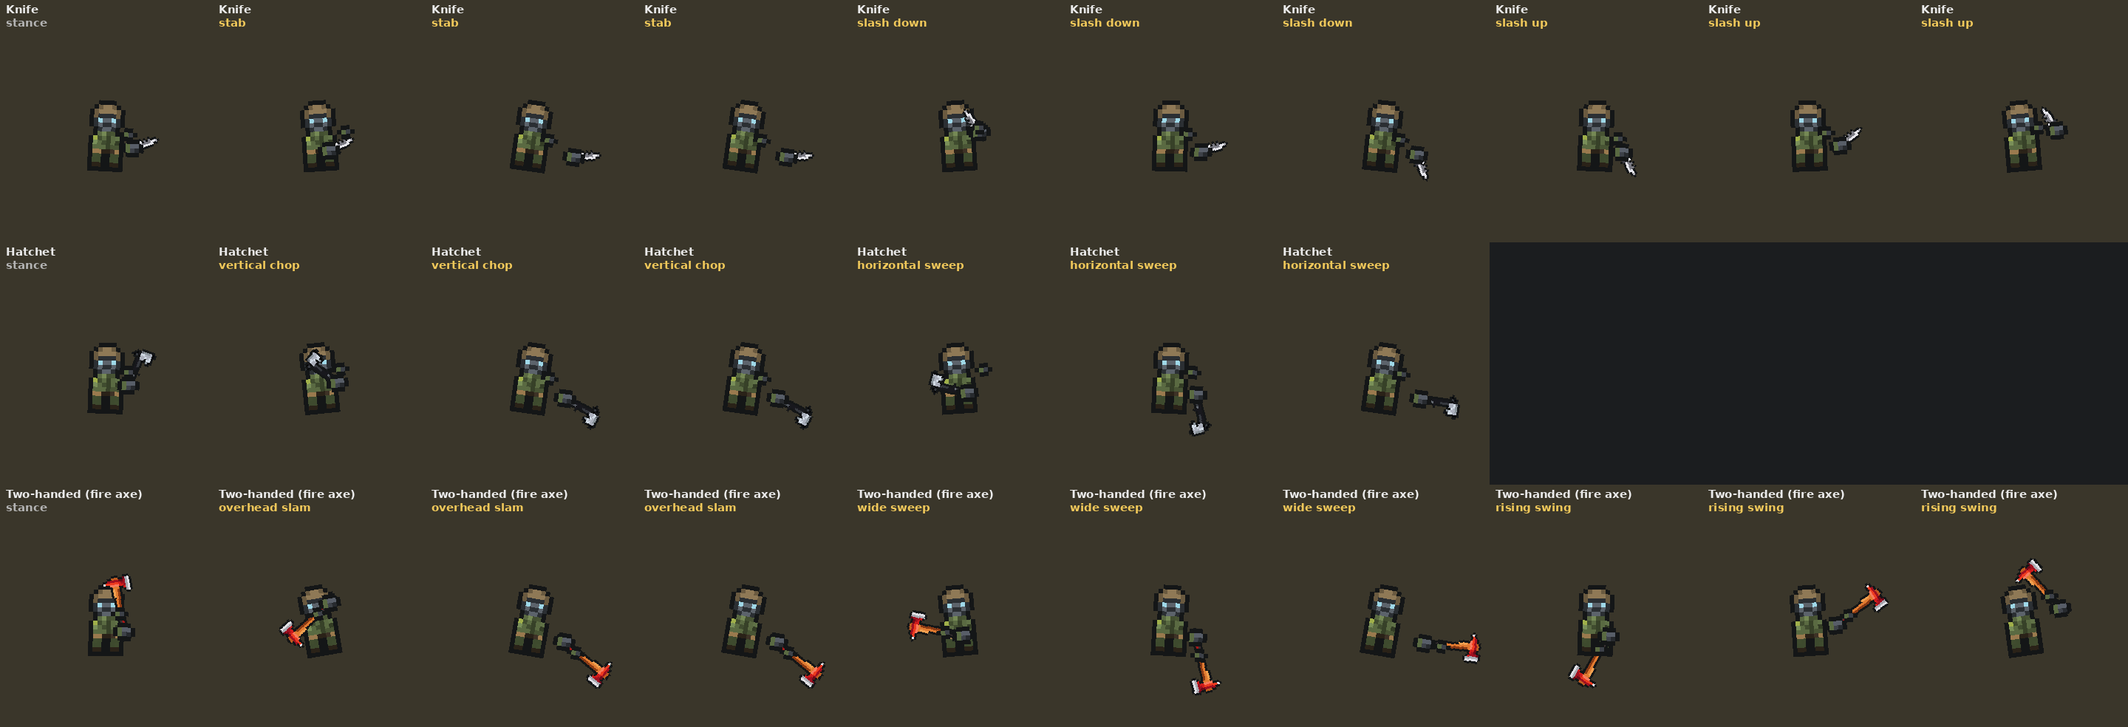
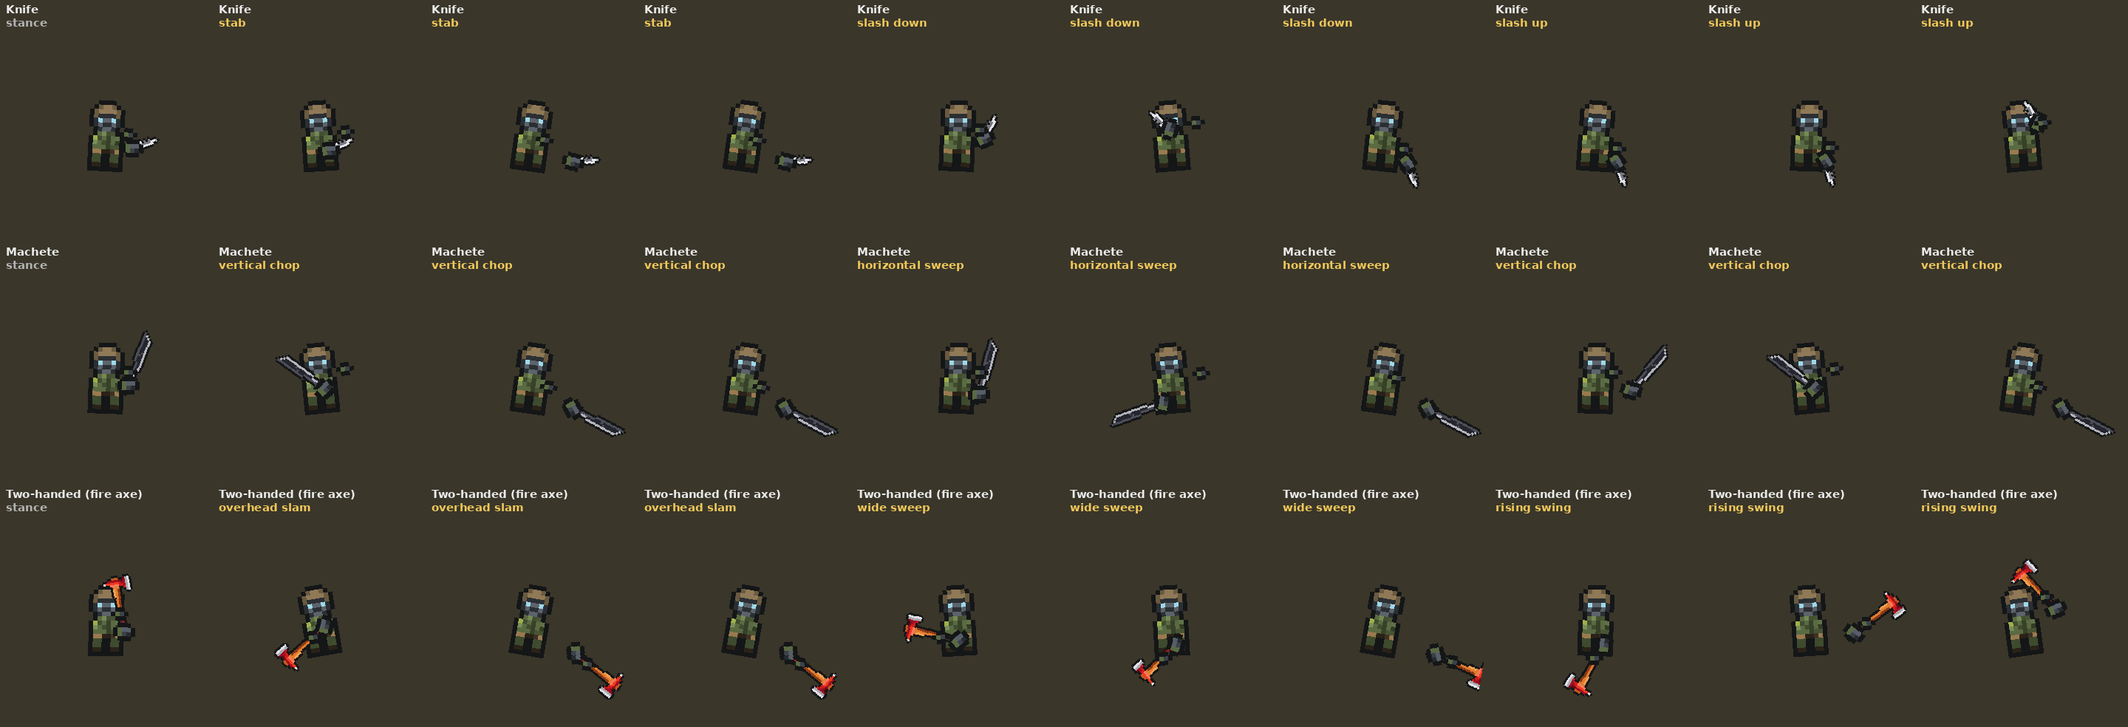
Melee 2b: flowing combos, queued clicks, sweeps over the top and foreshortened, the fist swings and turns with the weapon
Claude-Session: https://claude.ai/code/session_017RM7tWVFFchFrbQYy4G9ho

diff --git a/Assets/Scripts/GameCore/HeldWeapon.cs b/Assets/Scripts/GameCore/HeldWeapon.cs
@@ -32,6 +32,8 @@ namespace GameCore
         public float CylDX, CylDY;          // RT 6l: a revolver's cylinder swung out on its crane (character px from its seat)
         public float Lean;                  // RT 7e: the unit's tilt from a melee swing or throw (degrees, + = counter-clockwise)
         public bool Thrown;                 // RT 7e: it has left the hand (the whip forward, after release)
+        public float HandDeg;              // Melee 2: the weapon fist's turn (degrees, + = counter-clockwise)
+        public float Length;                // Melee 2: the weapon's drawn length (1, or less mid-sweep: 0 = unset, read as 1)
         public float BreakDeg;              // RT 6i: how far a break-action's barrels hang open (degrees)
         public bool Left, HasSupport;
     }
@@ -197,34 +199,49 @@ namespace GameCore
             },
             new[] {
                 ((-75f, -1f, -2f, 6f), (85f, 3f, 1f, -8f)),          // vertical chop
-                ((-115f, -3f, 0f, 5f), (-295f, 4f, 0f, -8f)),        // horizontal sweep: from behind, round in front, level
+                ((-135f, -3f, -2f, 5f), (-275f, 4f, -2f, -8f)),      // horizontal sweep: from behind, round in front at chest height
             },
             new[] {
                 ((-150f, -2f, -7f, 10f), (95f, 3f, 2f, -10f)),       // overhead slam
-                ((-110f, -4f, 0f, 6f), (-300f, 5f, 0f, -10f)),       // wide sweep
+                ((-130f, -4f, -1f, 6f), (-280f, 5f, -1f, -10f)),     // wide sweep
                 ((160f, -2f, 3f, -2f), (-60f, 4f, -5f, 8f)),         // rising swing from the floor
             },
         };
         public static int MoveCount(Style st) => Moves[(int)st].Length;
         public static (float off, float hx, float hy, float lean) Stance(Style st) => Stances[(int)st];
 
-        /// <summary>A swing at `t` s of move `move` (any number: it wraps) for this style; outside a swing, the stance.</summary>
-        public static (float off, float hx, float hy, float lean) Chop(float t, Style st = Style.Chop, int move = 0)
+        /// <summary>The sweeps: the weapon turns flat round in front of you, so mid-strike it points at the camera.</summary>
+        public const float ArmArc = 3f, HandTurn = 0.6f;   // px the fist travels on its arc per radian-ish of swing; how much of the turn the wrist takes
+        public static bool Sweep(Style st, int move) => st != Style.Knife && Wrap(st, move) == 1;
+        static int Wrap(Style st, int move) => ((move % MoveCount(st)) + MoveCount(st)) % MoveCount(st);
+
+        /// <summary>A swing at `t` s of move `move` (any number: it wraps) for this style; outside a swing, the stance. In a combo
+        /// (`from` = how far into the last swing this one began, -1 = not in one) the wind-up starts where the last swing was, so
+        /// the swings flow into each other instead of going back to the stance between them.</summary>
+        public static (float off, float hx, float hy, float lean) Chop(float t, Style st = Style.Chop, int move = 0, float from = -1f)
         {
-            var s = Stances[(int)st]; var m = Moves[(int)st][((move % MoveCount(st)) + MoveCount(st)) % MoveCount(st)];
+            var s = Stances[(int)st]; var m = Moves[(int)st][Wrap(st, move)];
             if (t < 0f || t >= SwingLength) return s;
+            var start = from >= 0f ? Chop(from, st, move - 1) : s;
             float Sm(float x) { x = Mathf.Clamp01(x); return x * x * (3f - 2f * x); }
             (float, float, float, float) L((float off, float hx, float hy, float lean) p, (float off, float hx, float hy, float lean) q, float k, bool near)
             {
-                float qo = near ? p.off + Mathf.DeltaAngle(p.off, q.off) : q.off;          // to and from the stance: the short way round
+                float qo = near ? p.off + Mathf.DeltaAngle(p.off, q.off) : q.off;          // to and from the stance: the short way round,
+                if (near && Through(p.off, qo, 155f)) qo += qo > p.off ? -360f : 360f;     // unless that drops it through your feet: then over the top
                 return (Mathf.Lerp(p.off, qo, k), Mathf.Lerp(p.hx, q.hx, k), Mathf.Lerp(p.hy, q.hy, k), Mathf.Lerp(p.lean, q.lean, k));
             }
-            if (t < WindUp) return L(s, m.a, Sm(t / WindUp), true);
+            if (t < WindUp) return L(start, m.a, Sm(t / WindUp), true);
             t -= WindUp;
             if (t < ChopTime) return L(m.a, m.b, t / ChopTime, false);                    // the strike (the hit lands at its end)
             t -= ChopTime;
             if (t < Follow) return m.b;
             return L(m.b, s, Sm((t - Follow) / Recover), true);
+        }
+
+        static bool Through(float from, float to, float off)                             // does turning from -> to pass `off` (mod 360)?
+        {
+            float lo = Mathf.Min(from, to), hi = Mathf.Max(from, to), k = Mathf.Ceil((lo - off) / 360f);
+            return off + 360f * k <= hi;
         }
 
         /// <summary>RT 7e: lifting it over your head to throw (held `t` s): the head goes back and down behind you, the fist up by
@@ -242,19 +259,29 @@ namespace GameCore
             return (-150f + 220f * c, -2f + 5f * c, -10f + 10f * c, 8f - 18f * c);
         }
 
-        static HeldFrame MeleeFrame(float angle, float sinceSwing, float swingHold, float throwHold, float sinceThrow, string key, int move)
+        static HeldFrame MeleeFrame(float angle, float sinceSwing, float swingHold, float throwHold, float sinceThrow, string key, int move, float from)
         {
             bool left = Mathf.Cos(angle * Mathf.Deg2Rad) < -0.0001f;
             float side = left ? -1f : 1f;
             var st = StyleOf(key); var stance = Stance(st);
             var (off, hx, hy, lean) = throwHold >= 0f ? Blend(stance, Lift(throwHold), Mathf.Clamp01(throwHold / LiftTime))
                 : sinceThrow < WhipTime ? Whip(sinceThrow)
-                : swingHold >= 0f ? Chop(Mathf.Min(swingHold, WindUp), st, move)
-                : Chop(sinceSwing, st, move);
+                : swingHold >= 0f ? Chop(Mathf.Min(swingHold, WindUp), st, move, from)
+                : Chop(sinceSwing, st, move, from);
             if (throwHold < 0f && sinceThrow >= WhipTime && swingHold > WindUp) off += 3f * Mathf.Sin(swingHold * 30f);   // a charged swing trembles
+            // Melee 2 (Yan: "the hand and angle stay the same ... they need to rotate as well with the swing"): in a swing the fist
+            // rides an arc round the shoulder with the weapon (the arm swinging, not just the wrist) and turns with it; at the stance
+            // the arc adds nothing
+            float turn = 0f;
+            if (throwHold < 0f && sinceThrow >= WhipTime)
+            {
+                float a = (65f - off) * Mathf.Deg2Rad, a0 = (65f - stance.off) * Mathf.Deg2Rad;   // the weapon's angle facing right, now and at the stance
+                hx += ArmArc * (Mathf.Cos(a) - Mathf.Cos(a0)); hy -= ArmArc * (Mathf.Sin(a) - Mathf.Sin(a0));
+                turn = Mathf.DeltaAngle(stance.off, off);
+            }
             float right = ChestX + 3f;                                                   // the fist beside the body
             float gx = (left ? 13f - right : right) + side * Mathf.Round(hx);
-            float gy = Mathf.Min(Mathf.Round(ChestY + 0.5f + hy), WaistTopRow);   // (a lifted fist goes up past the head: no lower limit)
+            float gy = Mathf.Min(Mathf.Round(ChestY + 0.5f + hy), WaistTopRow + 2f);   // down to the hip at most (a lifted fist goes up past the head)
             float cx = left ? 1f : 2f, deg = 90f - side * (RestTilt + off);
             // the other hand: on the handle above the fist with a two-handed weapon; otherwise up in a guard in front of the chest,
             // pulled back as the weapon hand goes out (none while throwing - it's up there with the weapon)
@@ -265,7 +292,10 @@ namespace GameCore
             {
                 Left = left, HasSupport = sup, MagShown = false, SupX = Mathf.Round(sx), SupY = Mathf.Round(sy - 0.5f) + 0.5f,
                 GunDeg = deg,                                                            // edge forward (a flipped sprite mirrors it)
+                HandDeg = -side * turn * HandTurn,
                 GunX = gx + cx, GunY = gy + 1.5f, GripX = gx + cx, GripY = gy + 1.5f,
+                Length = swingHold < 0f && throwHold < 0f && sinceSwing >= WindUp && sinceSwing < WindUp + ChopTime && Sweep(st, move)
+                    ? 0.45f + 0.55f * Mathf.Abs(Mathf.Cos(deg * Mathf.Deg2Rad)) : 1f,   // a sweep foreshortens as it comes at the camera
                 Lean = side * lean, Thrown = throwHold < 0f && sinceThrow >= 0f && sinceThrow < WhipTime && sinceThrow >= 0.5f * WhipTime,
             };
         }
@@ -277,9 +307,9 @@ namespace GameCore
         /// g = WeaponArt grip/support/muzzle points.</summary>
         public static HeldFrame Frame(string cat, float[] g, float angle, float k, float climb, float kick, float sinceSwing,
             float r, string style, int trips, float[] mag = null, float swingHold = -1f, float throwHold = -1f, float sinceThrow = 99f,
-            string key = null, int move = 0)
+            string key = null, int move = 0, float from = -1f)
         {
-            if (cat == "melee") return MeleeFrame(angle, sinceSwing, swingHold, throwHold, sinceThrow, key, move);   // RT 7c, 7e, Melee 2
+            if (cat == "melee") return MeleeFrame(angle, sinceSwing, swingHold, throwHold, sinceThrow, key, move, from);   // RT 7c, 7e, Melee 2
             bool left = Mathf.Cos(angle * Mathf.Deg2Rad) < -0.0001f;
             float side = left ? -1f : 1f;
             var (swingDeg, lunge) = Swing(sinceSwing);
@@ -683,7 +713,7 @@ namespace GameCore
                 var big = HandSprite(armor, false);
                 _grip.sprite = big; _support.sprite = big;
                 _grip.flipX = false; _support.flipX = true;                           // cuffs toward the body
-                _grip.transform.localPosition = Local(RestRightX, RestY);
+                _grip.transform.localPosition = Local(RestRightX, RestY); _grip.transform.localRotation = Quaternion.identity;
                 _support.transform.localPosition = Local(RestLeftX, RestY);
                 _g = null;
                 return;
@@ -710,7 +740,7 @@ namespace GameCore
                 _reloadTime > 0f ? (now - _reloadAt) / _reloadTime : 1f, _reloadStyle, _reloadTrips,
                 key != null && WeaponArt.Mag(cat, key).mag != null && WeaponMags.Points.TryGetValue(key, out var pts) ? pts : null,
                 mc != null && mc.SwingFrom >= 0f ? now - mc.SwingFrom : -1f, mc != null && mc.ThrowFrom >= 0f ? now - mc.ThrowFrom : -1f, mc != null ? now - mc.ThrewAt : 99f,
-                key, mc != null ? mc.Move : (int)(_swingAt * 7f));                         // Melee 2: NPCs vary their swings too
+                key, mc != null ? mc.Move : (int)(_swingAt * 7f), mc != null ? mc.From : -1f);   // Melee 2: NPCs vary their swings too
             Lean = f.Lean;
 
             var (body, mag) = WeaponArt.Mag(cat, key);
@@ -718,6 +748,7 @@ namespace GameCore
             _gun.flipY = f.Left;
             _gun.transform.localPosition = Local(f.GunX, f.GunY);
             _gun.transform.localRotation = Quaternion.Euler(0f, 0f, f.GunDeg);
+            _gun.transform.localScale = new Vector3(f.Length > 0f ? f.Length : 1f, 1f, 1f);
             var brk = WeaponArt.Break(cat, key);
             if (brk.body != null && brk.barrels != null)
             {
@@ -758,6 +789,7 @@ namespace GameCore
             _grip.sprite = hand; _support.sprite = hand;
             _grip.flipX = _support.flipX = f.Left;                                    // cuff stays on the body side
             _grip.transform.localPosition = Local(f.GripX, f.GripY);
+            _grip.transform.localRotation = Quaternion.Euler(0f, 0f, f.HandDeg);
             _support.gameObject.SetActive(f.HasSupport);
             if (f.HasSupport) _support.transform.localPosition = Local(f.SupX, f.SupY);
             if (_w2?.Db != null && cat != "melee")

diff --git a/Tools/compile_check/test/Program.cs b/Tools/compile_check/test/Program.cs
@@ -854,21 +854,23 @@ static class Program {
   // (each click within the combo gap is the next move), at 30 frames a second -> Tools/render/melee_moves.py
   static void MeleeMoves(string path) {
     var p = Arena(out int px, out int py); var sb = new System.Text.StringBuilder("{\"weapons\":[");
-    var keys = new[] { "HuntingKnife", "TacticalHatchet", "FireAxe" };
+    var keys = new[] { "HuntingKnife", "SteppeMachete", "FireAxe" };
     for (int k = 0; k < keys.Length; k++) {
       Melee.Reset(); EncounterState.Enemies.Clear(); p.X = px; p.Y = py; Rt.SetOffset(p, 0f, 0f);
       p.EquipWeapon("melee", keys[k]); var w = p.EquippedWeapon; var g = WeaponArt.GripOf("melee", keys[k]);
       int moves = HeldPoseMath.MoveCount(HeldPoseMath.StyleOf(keys[k]));
-      float every = HeldPoseMath.SwingLength + 0.15f; int n = (int)((0.5f + moves * every + 0.6f) * 30f);
+      // the player mashes: a click every 0.25 s for the whole string (early clicks wait for the follow-through), then lets it settle
+      float every = 0.25f; int n = (int)((0.5f + moves * 0.8f + 0.8f) * 30f); int clicks = 0; bool was = false; float lastAt = -99f;
       sb.Append(FormattableString.Invariant($"{(k > 0 ? "," : "")}{{\"key\":\"{keys[k]}\",\"grip\":[{g[0]},{g[1]}],\"frames\":["));
       for (int i = 0; i < n; i++) {
         float t = i / 30f; Melee.Now = t;
-        float u = t - 0.5f; bool left = u >= 0f && u < moves * every && u % every < 2.5f / 30f;   // a quick click per move
+        float u = t - 0.5f; bool left = u >= 0f && clicks < moves && u % every < 2.5f / 30f;   // a quick click until every move has started
+        if (Melee.ChargeOf(p).SwungAt != lastAt) { lastAt = Melee.ChargeOf(p).SwungAt; clicks++; } was = left;
         Melee.PlayerInput(p, w, left, false, (px + 1.2f, py + 0.5f - 0.45f * Ballistics.BodyTiles));
         Melee.Tick(1f / 30f);
         var mc = Melee.ChargeOf(p);
-        var f = HeldPoseMath.Frame("melee", g, 0f, 0f, 0f, 0f, t - mc.SwungAt, 1f, "none", 1, null, mc.SwingFrom >= 0f ? t - mc.SwingFrom : -1f, -1f, 99f, keys[k], mc.Move);
-        sb.Append(FormattableString.Invariant($"{(i > 0 ? "," : "")}[{f.GunX},{f.GunY},{f.GunDeg},{f.GripX},{f.GripY},{(f.HasSupport ? 1 : 0)},{f.SupX},{f.SupY},{f.Lean},{mc.Move},{(t - mc.SwungAt < HeldPoseMath.SwingLength ? 1 : 0)}]"));
+        var f = HeldPoseMath.Frame("melee", g, 0f, 0f, 0f, 0f, t - mc.SwungAt, 1f, "none", 1, null, mc.SwingFrom >= 0f ? t - mc.SwingFrom : -1f, -1f, 99f, keys[k], mc.Move, mc.From);
+        sb.Append(FormattableString.Invariant($"{(i > 0 ? "," : "")}[{f.GunX},{f.GunY},{f.GunDeg},{f.GripX},{f.GripY},{(f.HasSupport ? 1 : 0)},{f.SupX},{f.SupY},{f.Lean},{mc.Move},{(t - mc.SwungAt < HeldPoseMath.SwingLength ? 1 : 0)},{(f.Length > 0f ? f.Length : 1f)},{f.HandDeg}]"));
       }
       sb.Append("]}"); Melee.Now = -1f;
     }
@@ -1020,6 +1022,14 @@ static class Program {
     Check(a != b, "the chop and the sweep end in different places");
     var f = HeldPoseMath.Frame("melee", WeaponArt.GripOf("melee", "FireAxe"), 0f, 0f, 0f, 0f, 99f, 1f, "none", 1, null, -1f, -1f, 99f, "FireAxe", 0);
     Check(f.HasSupport && Math.Abs(f.SupX - f.GripX) + Math.Abs(f.SupY - f.GripY) >= 3f, "two-handed: the other hand is on the handle");
+    float into = HeldPoseMath.WindUp + HeldPoseMath.ChopTime + 0.05f;
+    Check(HeldPoseMath.Chop(0f, HeldPoseMath.Style.Knife, 1, into) == HeldPoseMath.Chop(into, HeldPoseMath.Style.Knife, 0), "a combo swing starts where the last one was");
+    { var p = Arena(out int px, out int py); Melee.Reset(); p.EquipWeapon("melee", "HuntingKnife"); var w = p.EquippedWeapon; var at = (px + 1.2f, (float)py);
+      Melee.Now = 0f; Melee.PlayerInput(p, w, true, false, at); Melee.Now = 0.03f; Melee.PlayerInput(p, w, false, false, at);   // a tap
+      Melee.Now = 0.2f; Melee.PlayerInput(p, w, true, false, at); Melee.Now = 0.23f; Melee.PlayerInput(p, w, false, false, at); // too early: queued
+      var mc = Melee.ChargeOf(p); Check(mc.Queued && mc.Move == 0, "a click mid-swing is queued");
+      for (float t = 0.25f; t < 1f && mc.Queued; t += 1f / 30f) { Melee.Now = t; Melee.PlayerInput(p, w, false, false, at); }
+      Check(!mc.Queued && mc.Move == 1 && mc.From > 0f, "the queued click becomes the next move of the combo"); Melee.Now = -1f; Melee.Reset(); }
   }
 
   static void BossChecks() {

diff --git a/Assets/Scripts/GameCore/Melee.cs b/Assets/Scripts/GameCore/Melee.cs
@@ -73,7 +73,13 @@ namespace GameCore
         {
             public float SwingFrom = -1f, ThrowFrom = -1f, SwungAt = -99f, ThrewAt = -99f;
             public int Move;                                    // Melee 2: which swing of the weapon's string this one is
-            public void Next(float now) => Move = now - SwungAt < HeldPoseMath.SwingLength + ComboGap ? Move + 1 : 0;
+            public float From = -1f;                            // how far into the last swing this one began (-1: from the stance)
+            public bool Queued;                                 // clicked before the last swing let go: it starts the moment it can
+            public void Next(float now)
+            {
+                bool combo = now - SwungAt < HeldPoseMath.SwingLength + ComboGap;
+                Move = combo ? Move + 1 : 0; From = combo ? now - SwungAt : -1f;
+            }
         }
         public const float ComboGap = 0.4f;                    // click again within this of the last swing ending: the next move
         static readonly Dictionary<ICombatant, Charge> Charges = new Dictionary<ICombatant, Charge>();
@@ -102,7 +108,9 @@ namespace GameCore
         {
             var c = ChargeOf(p); float now = T;
             if (Winding.ContainsKey(p)) return;                                           // mid-throw
-            if (left && c.SwingFrom < 0f && c.ThrowFrom < 0f && !(NextSwing.TryGetValue(p, out var ns) && now < ns)) { c.Next(now); c.SwingFrom = now; }
+            bool locked = NextSwing.TryGetValue(p, out var ns) && now < ns;
+            if (left && locked && c.SwingFrom < 0f) c.Queued = true;                     // Melee 2: a click during the follow-through isn't lost
+            if ((left || c.Queued) && c.SwingFrom < 0f && c.ThrowFrom < 0f && !locked) { c.Next(now); c.SwingFrom = now; c.Queued = false; }
             if (!left && c.SwingFrom >= 0f)
             {
                 float held = now - c.SwingFrom; c.SwingFrom = -1f;
@@ -111,7 +119,7 @@ namespace GameCore
                 c.SwungAt = now - wind;                                                   // the pose carries on from where the wind-up is
                 if (at.HasValue) Release(p, w, at.Value, HeldPoseMath.WindUp - wind + HeldPoseMath.ChopTime, 1f + MaxSwingBonus * charge);
             }
-            if (right && c.ThrowFrom < 0f && c.SwingFrom < 0f) c.ThrowFrom = now;
+            if (right && c.ThrowFrom < 0f && c.SwingFrom < 0f) { c.ThrowFrom = now; c.Queued = false; }
             if (!right && c.ThrowFrom >= 0f)
             {
                 float held = now - c.ThrowFrom; c.ThrowFrom = -1f;
@@ -139,7 +147,7 @@ namespace GameCore
             var (dx, dy, h) = Aim(p, at);
             if (dx == 0f && dy == 0f) return;
             float now = T;
-            NextSwing[p] = now + Mathf.Max(delay + HeldPoseMath.Follow + HeldPoseMath.Recover, For(w).Swing - HeldPoseMath.WindUp);   // RT 7w: heavy ones recover slower
+            NextSwing[p] = now + Mathf.Max(delay + HeldPoseMath.Follow, For(w).Swing - HeldPoseMath.WindUp);   // RT 7w: heavy ones recover slower; Melee 2: the next swing may cut the recovery
             var anim = CombatFx.Push("melee", p, null, w); anim.Now = true;                  // the whoosh
             anim.ToX = p.X + Mathf.RoundToInt(dx * 2f); anim.ToY = p.Y + Mathf.RoundToInt(dy * 2f);
             Pending.Add((now + delay, p, w, dx, dy, h, mult));

diff --git a/Tools/render/melee_moves.py b/Tools/render/melee_moves.py
@@ -8,7 +8,7 @@ from PIL import Image, ImageDraw, ImageFont
 sys.path.insert(0, os.path.dirname(os.path.abspath(__file__)))
 from melee_scene import SPR, S, BG, big_glove, glove, paste
 
-NAMES = {"HuntingKnife": ("Knife", ["stab", "slash down", "slash up"]), "TacticalHatchet": ("Hatchet", ["vertical chop", "horizontal sweep"]),
+NAMES = {"SteppeMachete": ("Machete", ["vertical chop", "horizontal sweep"]), "HuntingKnife": ("Knife", ["stab", "slash down", "slash up"]), "TacticalHatchet": ("Hatchet", ["vertical chop", "horizontal sweep"]),
          "FireAxe": ("Two-handed (fire axe)", ["overhead slam", "wide sweep", "rising swing"])}
 
 def main(src, out):
@@ -25,11 +25,13 @@ def main(src, out):
         img = Image.open(os.path.join(SPR, f"Weapons/weapon_{wpn['key']}.png")).convert("RGBA")
         title, moves = NAMES[wpn["key"]]
         fr = []
-        for gx, gy, deg, hx, hy, sup, sx, sy, lean, move, swinging in wpn["frames"]:
+        for gx, gy, deg, hx, hy, sup, sx, sy, lean, move, swinging, length, hdeg in wpn["frames"]:
             c = Image.new("RGBA", (W, W + 40), BG); ub = 16 * S
             u = Image.new("RGBA", (W, W)); u.alpha_composite(body, (ub, ub))
-            paste(u, img, tuple(wpn["grip"]), (ub + gx * S, ub + gy * S), deg)
-            u.alpha_composite(fist, (round(ub + hx * S - 2.5 * S), round(ub + hy * S - 2 * S)))
+            wi = img if length > 0.99 else img.resize((max(1, round(img.width * length)), img.height), Image.NEAREST)   # a sweep foreshortens
+            paste(u, wi, (wpn["grip"][0] * length, wpn["grip"][1]), (ub + gx * S, ub + gy * S), deg)
+            fz = fist.rotate(hdeg, expand=True, resample=Image.NEAREST)            # the fist turns with the swing
+            u.alpha_composite(fz, (round(ub + hx * S - fz.width / 2), round(ub + hy * S - fz.height / 2)))
             if sup: u.alpha_composite(other, (round(ub + sx * S - 2 * S), round(ub + sy * S - 1.5 * S)))
             u = u.rotate(lean, center=(ub + 8 * S, ub + 8 * S), resample=Image.NEAREST)
             c.alpha_composite(u, (0, 40))
@@ -50,7 +52,7 @@ def main(src, out):
     for wpn, fr in zip(d["weapons"], cols):
         picks, last = [fr[5]], None
         for i, f in enumerate(wpn["frames"]):
-            if f[10] and f[9] != last: last = f[9]; picks += [fr[i + 3], fr[i + 6], fr[i + 9]]   # wound up, strike, follow-through
+            if f[10] and f[9] != last: last = f[9]; picks += [fr[i + 3], fr[i + 6], fr[min(i + 9, len(fr) - 1)]]   # wound up, strike, follow-through
         rows.append(picks)
     m = max(len(r) for r in rows)
     sheet = Image.new("RGB", (m * W, len(rows) * (W + 40)), (27, 29, 31))

diff --git a/ArtSource/WORK_LOG.md b/ArtSource/WORK_LOG.md
@@ -4206,3 +4206,16 @@ the edges? After that's done try rendering the fight". Mutant parries and co-op 
   theirs by swing time. Timing and damage unchanged (the hit still lands at the end of the strike).
 - Render: `dotnet /tmp/test.dll meleemoves m.json` + `Tools/render/melee_moves.py` -> `maps/renders/melee2/` (GIF and sheet).
   Checks: `MeleeMoveChecks`. Not checked in Unity. Per-move damage/speed (a quick stab, a slow slam) not done: Yan's call.
+- Melee 2b (Yan: "they have a pause between each attack and that makes it not look like a combo"; "the machete-type animation
+  might need some work on the second swing"; "the hand and angle stay the same ... they need to rotate as well with the swing"):
+  - Combos flow: a swing in a combo winds up from wherever the last one was (`Chop(.., from)`, `Charge.From`) instead of going
+    back to the stance; the next click is allowed after the follow-through (the recovery is cut, `Melee.cs` NextSwing), and a
+    click made too early is kept (`Charge.Queued`) and starts the next swing the moment it can. Heavy weapons keep their longer
+    recovery (RT 7w), so the axe still has a short beat between swings.
+  - Wind-ups never swing the weapon down through your feet: they go over the top (`Through`). The sweeps stay at chest height and
+    the weapon foreshortens as it comes round at the camera (`HeldFrame.Length` -> the weapon's x scale).
+  - The fist rides an arc round the shoulder with the swing (`ArmArc` 3 px) and turns with it (`HandDeg`, 0.6 of the weapon's
+    turn); it can drop to the hip now.
+  - Render shows the real clicking: a click every 0.25 s (mashing), machete instead of the hatchet. Checks: the combo starts where
+    the last swing was, an early click is queued and becomes the next move.
+- Yan: "bosses get their own moveset, at least the special red visor one" - to do (the Visor still uses his single swing pose).
